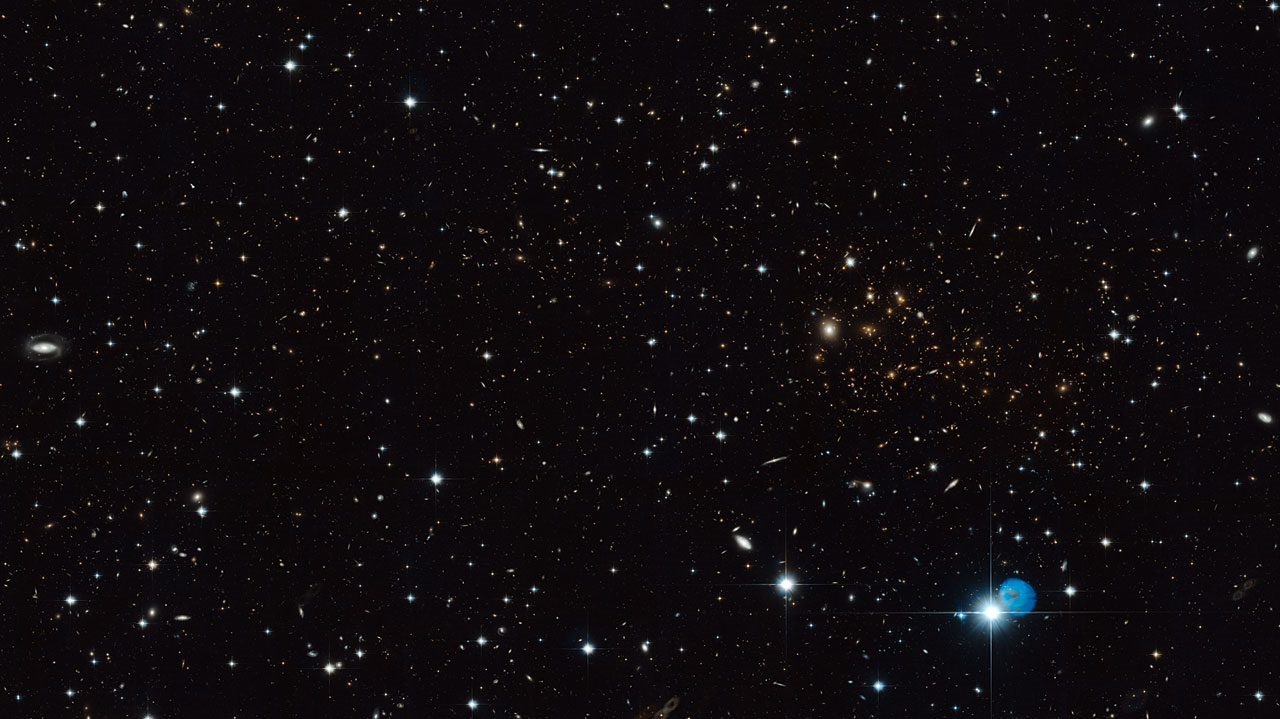
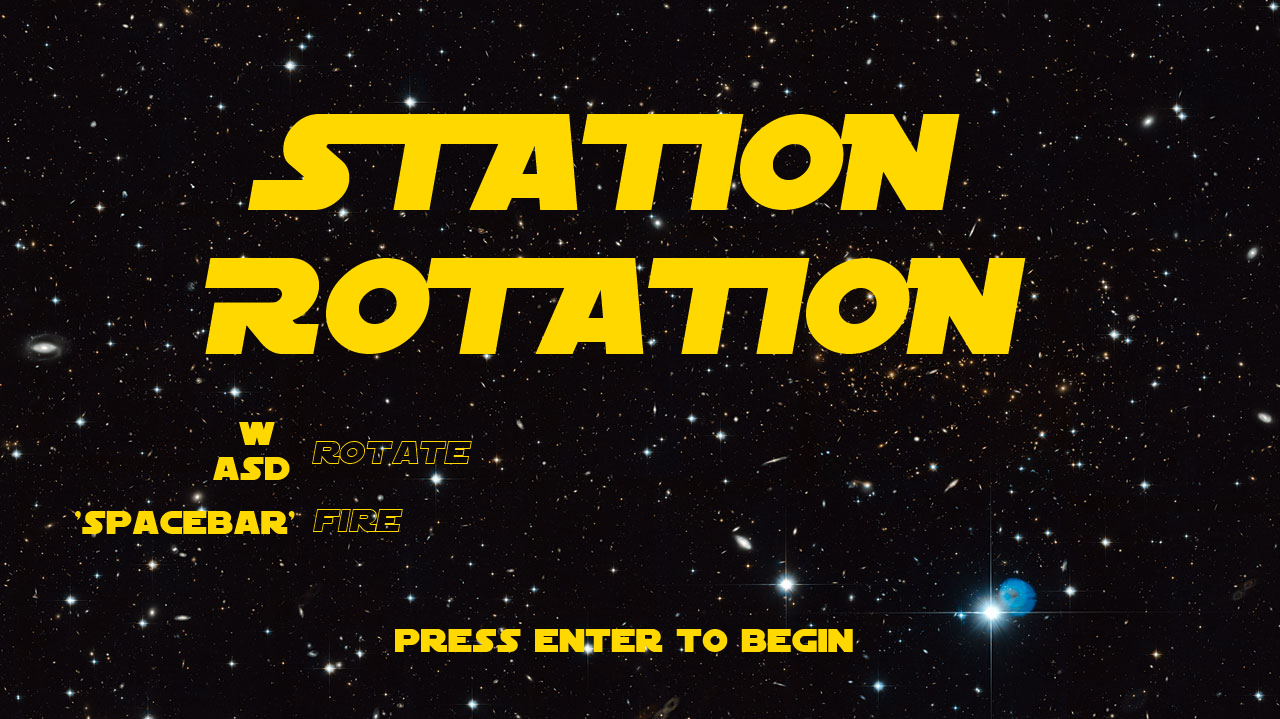
Splashscreen images
added more images. need to merge with splashscreen branch before
continuing

diff --git a/Crate/Crate.cpp b/Crate/Crate.cpp
@@ -57,6 +57,10 @@ private:
 	GameObject background[6];
 
 	ID3D10ShaderResourceView* mBackgroundRV;
+	ID3D10ShaderResourceView* mIntroRV;
+	ID3D10ShaderResourceView* mRestartRV;
+	ID3D10ShaderResourceView* mNextLevelRV;
+	ID3D10ShaderResourceView* mEndRV;
 
 	Bullet bulletObject;
 
@@ -192,6 +196,18 @@ void CrateApp::initApp()
 	HR(D3DX10CreateShaderResourceViewFromFile(md3dDevice, 
 		L"heic1215b.jpg", 0, 0, &mBackgroundRV, 0 ));
 
+	HR(D3DX10CreateShaderResourceViewFromFile(md3dDevice, 
+		L"INTRO.png", 0, 0, &mIntroRV, 0 ));
+
+	//HR(D3DX10CreateShaderResourceViewFromFile(md3dDevice, 
+	//	L"", 0, 0, &mRestartRV, 0 ));
+
+	HR(D3DX10CreateShaderResourceViewFromFile(md3dDevice, 
+		L"transition.png", 0, 0, &mNextLevelRV, 0 ));
+
+	HR(D3DX10CreateShaderResourceViewFromFile(md3dDevice, 
+		L"endscreen.png", 0, 0, &mEndRV, 0 ));
+	
 	mParallelLight.dir      = D3DXVECTOR3(0.57735f, -0.57735f, 0.57735f);
 	mParallelLight.ambient  = D3DXCOLOR(0.4f, 0.4f, 0.4f, 1.0f);
 	mParallelLight.diffuse  = D3DXCOLOR(1.0f, 1.0f, 1.0f, 1.0f);
